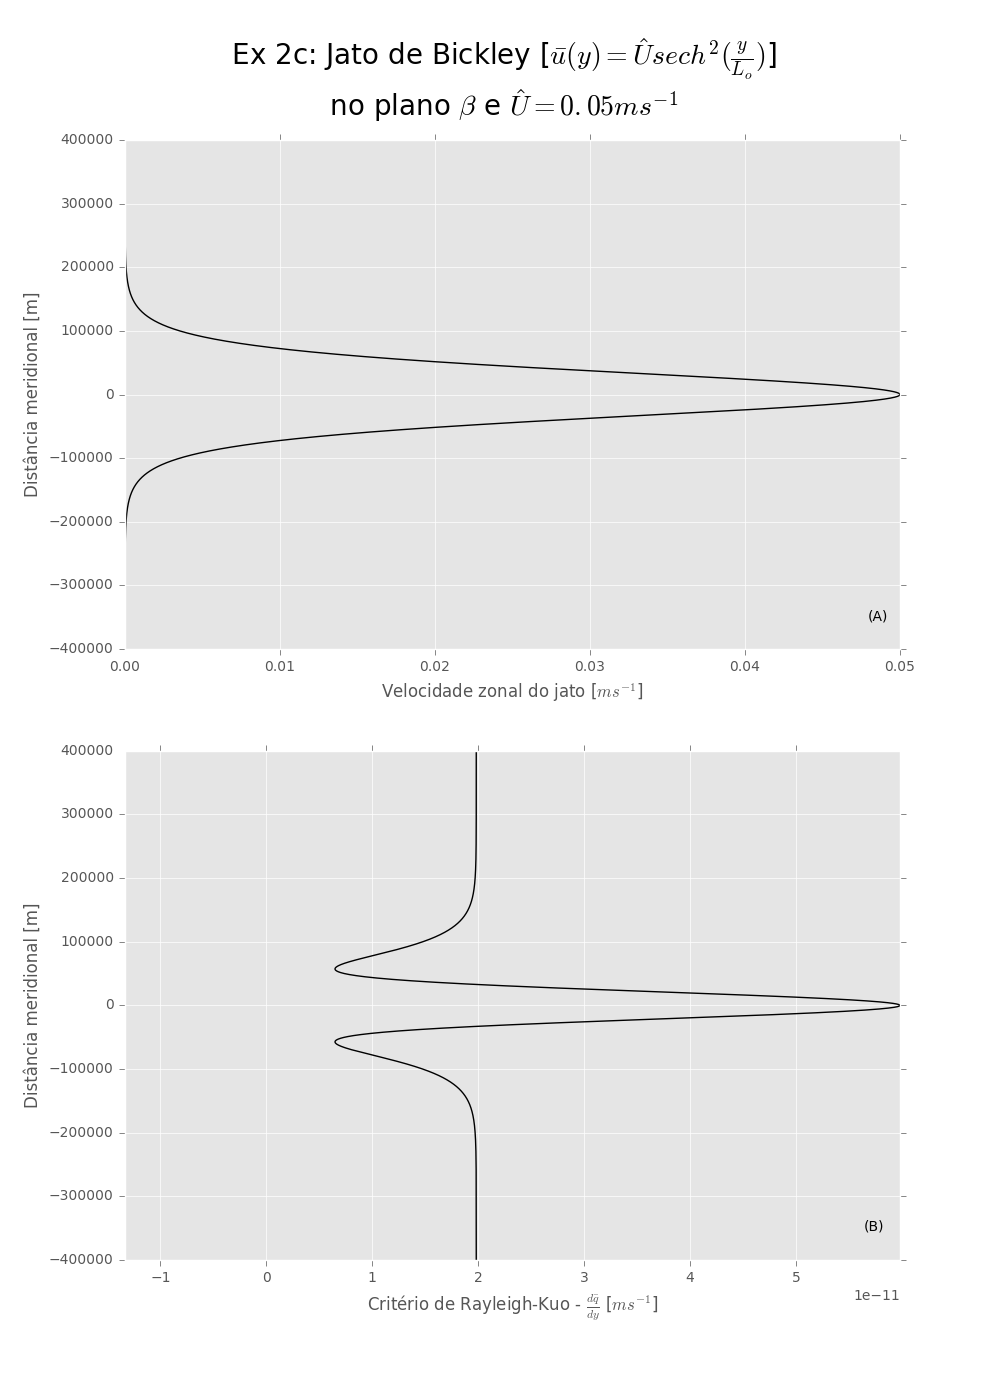
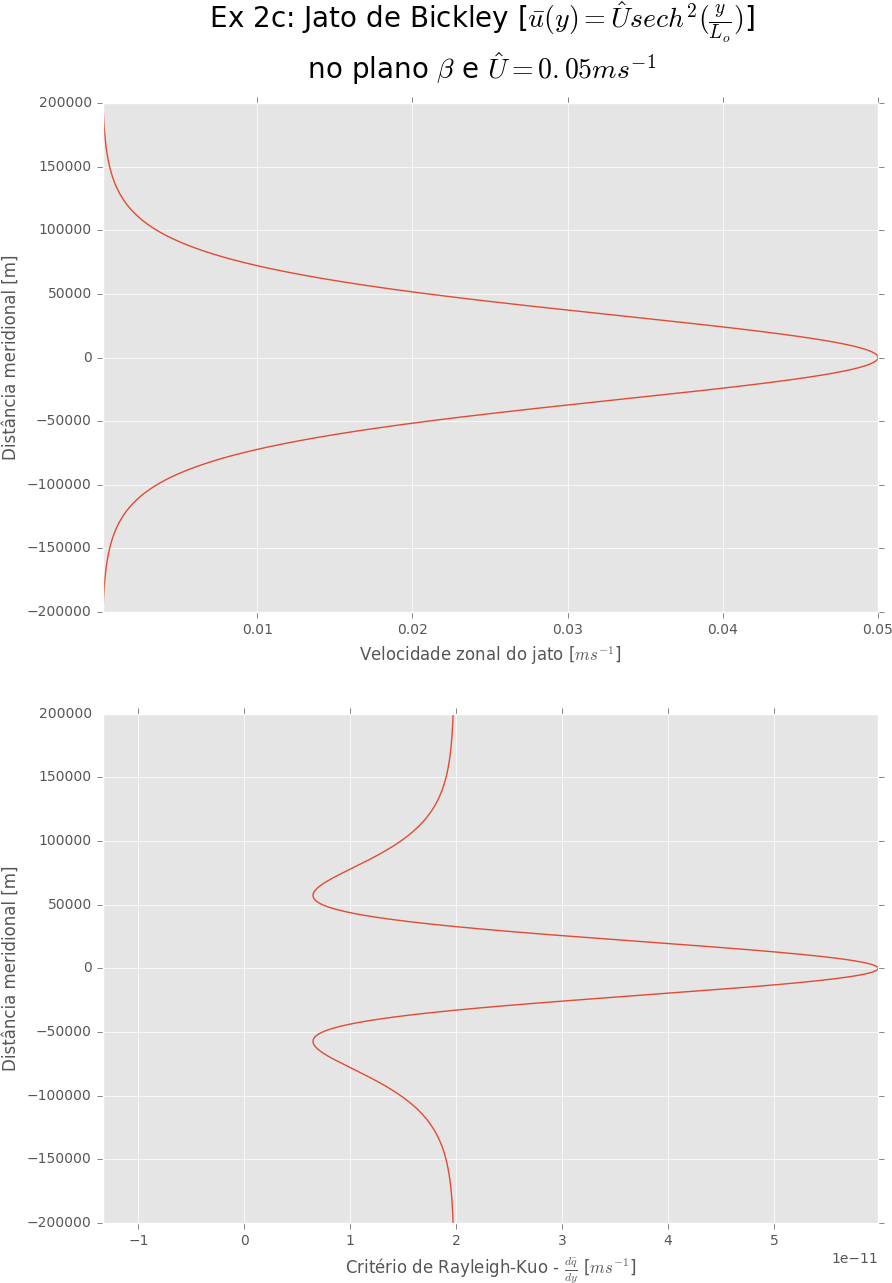
joblab_25Jul

Changed region(s): [[0.0, 0.0, 0.9989, 1.0], [0.454, 0.7171, 0.6054, 0.7482], [0.333, 0.6547, 0.454, 0.7171]]

diff --git a/IOC5811/lista2/codes/lista2_InstabilidadeBarotropica.py b/IOC5811/lista2/codes/lista2_InstabilidadeBarotropica.py
@@ -14,7 +14,7 @@ matplotlib.style.use('ggplot')
 
 # set to True if you're plotting the final graphs, otherwise keep as False
 # and no image will be save, only showed to you.
-PLOTandSAVE = False
+PLOTandSAVE = True
 
 # exercicio 2.A - jato de bickley dado por u(y) =
 def calcular_dqdy(y, Lo, U, beta):
@@ -69,7 +69,7 @@ def plotar_ex2a(U, Lo, L, beta=0., figname=''):
 
 	fig, (ax1, ax2) = plt.subplots(nrows=2, ncols=1, figsize=(10,14))
 
-	ax1.plot(u,y, 'k')
+	ax1.plot(u,y)
 
 	#ax1.set_ylim(200000, -200000)
 	#ax1.set_title('Ex.2-a) Velocidade Zonal (u)')
@@ -78,7 +78,7 @@ def plotar_ex2a(U, Lo, L, beta=0., figname=''):
 	ax1.set_xlabel(u"Velocidade zonal do jato [$m s^{-1}$]")
 	ax1.set_xlim([u.min(), u.max()])
 
-	ax2.plot(dqdy, y, 'k')
+	ax2.plot(dqdy, y)
 
 	p_inflexao = [(0., 0.66*Lo), (0., -0.66*Lo)]
 	for p in p_inflexao:
@@ -120,7 +120,7 @@ def plotar_ex2b(y, dqdy, u_barra, u_0, Lo, figname=""):
 	# plotando o critério de Rayleigh-Kuo
 	p_inflexao = [(0., 0.66*Lo), (0., -0.66*Lo)]
 
-	ax1.plot(dqdy, y, 'k')
+	ax1.plot(dqdy, y)
 	for p in p_inflexao:
 		ax1.scatter(p[0], p[1], color='k', marker='o')
 
@@ -136,7 +136,7 @@ def plotar_ex2b(y, dqdy, u_barra, u_0, Lo, figname=""):
 
 	# plotando o critério de Fjortoft
 	fjor = calcular_fjortoft(u_barra, u_0, dqdy)
-	ax2.plot(fjor, y, 'k')
+	ax2.plot(fjor, y)
 
 	# for p in p_inflexao:
 	# 	ax2.scatter(p[0], p[1], color='k', marker='o')
@@ -174,12 +174,12 @@ def plotar_ex2c(U, Lo, L, beta, dqdy_min, figname=""):
 	fig, (ax1, ax2) = plt.subplots(nrows=2, ncols=1, figsize=(10,14))
 
 	# plotando o critério de Rayleigh-Kuo
-	ax1.plot(u, y, 'k')
+	ax1.plot(u, y)
 	ax1.set_ylabel(u"Distância meridional [m]")
 	ax1.set_xlabel(u"Velocidade zonal do jato [$m s^{-1}$]")
 	ax1.set_xlim([u.min(), u.max()])
 
-	ax2.plot(dqdy, y, 'k')
+	ax2.plot(dqdy, y)
 
 	#ax2.set_title('Ex.2-a) Gradiente de Vorticidade Potencial Basica')
 	ax2.set_ylabel(u"Distância meridional [m]")
@@ -216,13 +216,13 @@ def plotar_ex2d(U, Lo, L, beta, figname=''):
 
 	fig, (ax1, ax2) = plt.subplots(nrows=2, ncols=1, figsize=(10,14))
 
-	ax1.plot(u,y,'k')
+	ax1.plot(u,y)
 
 	ax1.set_ylabel(u"Distância meridional [m]")
 	ax1.set_xlabel(u"Velocidade zonal do jato [$m s^{-1}$]")
 	ax1.set_xlim([u.min(), u.max()])
 
-	ax2.plot(dqdy, y, 'k')
+	ax2.plot(dqdy, y)
 
 	# calcular os pontos de inflexão e a velocidade nestes pontos
 	u0, ys, idy = calcular_u0(dqdy, U, Lo, y)
@@ -302,7 +302,7 @@ def plotar_ex2d_parteIII(jatoA, jatoD, y, figname=""):
 
 	fig, (ax1, ax2) = plt.subplots(nrows=1, ncols=2, figsize=(10,8), sharey=True)
 	# plot jatoA
-	ax1.plot(jatoA, y, 'k')
+	ax1.plot(jatoA, y)
 	ax1.fill_between(jatoA, -100, y, alpha=.5, label=labelA)
 	ax1.set_title(u'Critério de Fjortoft - Jato A')
 	ax1.set_xlabel(u"Critério de Fjortoft - " + r"$(\bar{u} - u_o) \frac{dq}{dy}$ [$m s^{-1}$]")
@@ -310,7 +310,7 @@ def plotar_ex2d_parteIII(jatoA, jatoD, y, figname=""):
 	ax1.axvline(0., color='gray')
 	ax1.legend()
 
-	ax2.plot(jatoD, y, 'k')
+	ax2.plot(jatoD, y)
 	ax2.fill_between(jatoD, -100, y, alpha=.5, label=labelD)
 	ax2.set_title(u'Critério de Fjortoft - Jato D')
 	ax2.set_xlabel(u"Critério de Fjortoft - " + r"$(\bar{u} - u_o) \frac{dq}{dy}$ [$m s^{-1}$]")
@@ -326,7 +326,7 @@ def plotar_ex2d_parteIII(jatoA, jatoD, y, figname=""):
 		plt.show()
 
 def find_nearest(n, s, r, index=False):
-	""" 
+	"""
 		Find 'n' values in 's' with the lowest absolute
 		difference from the number 'r'.
 
@@ -341,14 +341,14 @@ def find_nearest(n, s, r, index=False):
 			index = control if the returned value is the
 			data itself or only the indexes
 
-		output: 
+		output:
 			values of s or indexes, based on index argument
 	"""
 
 	from heapq import nsmallest
 
 	if index:
-		# return the index of data 
+		# return the index of data
 		ids = []
 		# list with all data found
 		val = nsmallest(n,s, key=lambda x: abs(x-r))
@@ -446,7 +446,7 @@ for x in u0:
 	print(x)
 
 #plotar o critério de fjortoft
-# como são 4 raízes, mas somente duas velocidades, então envio somente duas 
+# como são 4 raízes, mas somente duas velocidades, então envio somente duas
 # velocidades para calcular e plotar o critério de Fjortoft
 if PLOTandSAVE:
 	figname = '../outputs/Fig2_4_2.png'
@@ -465,6 +465,14 @@ else:
 plotar_ex2d_parteIII(fjor_jatoA, fjor_jatoD, y, figname=figname)
 
 
+
+import glob
+import os
+
+lstFile = glob.glob('../outputs/Fig*')
+for fname in lstFile:
+	if fname != '../outputs/Fig2_4_2.png':
+		os.system('convert -trim %s %s' % (fname, fname))
 
 
 ###################################################

diff --git a/IOC5811/lista2/codes/RK_solver.py b/IOC5811/lista2/codes/RK_solver.py
@@ -1,5 +1,5 @@
 #-*-coding:utf-8-*-
-""" 
+"""
 Converting RK_soltar_lista2.m from matlab to python.
 
 In the process, answering exercise 2.E from the second homework of DFGII
@@ -7,7 +7,7 @@ In the process, answering exercise 2.E from the second homework of DFGII
 Some useful sources and links:
 
 . Eigenvalue and eigenvector problem:
-    mathematical theory: 
+    mathematical theory:
         https://www.respondeai.com.br/resumos/33/capitulos/1
     numerical solution using Jacobi's Method:
         http://www.southampton.ac.uk/~feeg6002/lecturenotes/feeg6002_numerical_methods08.pdf
@@ -40,7 +40,7 @@ def importMatfile(fname=''):
     return cr, sig, P
 
 def plotar_tudo(k,y,cr,sig,Pphasemax, Pmax, figname, title):
-    """ 
+    """
         plotar 4 subplots with:
             cr x k*1000
             sig x k*1000
@@ -52,41 +52,47 @@ def plotar_tudo(k,y,cr,sig,Pphasemax, Pmax, figname, title):
     kplot = k*1000
     yplot = y*1e-3
 
-    fig, axes = plt.subplots(nrows=2, ncols=2, figsize=(10,10))
+    fig, axes = plt.subplots(nrows=2, ncols=2, figsize=(13,12))
 
     # plot cr x k
     axes[0, 0].plot(kplot, cr)
     axes[0, 0].set_title(u'Velocidade de Fase - $c_r$')
-    axes[0, 0].set_xlabel(u'phase speeds [$m s^{-1}$]')
-    axes[0, 0].set_ylabel(u'Número de onda [$km^{-1}$]')
+    axes[0, 0].set_xlabel(u'Número de onda [$km^{-1}$]')
+    axes[0, 0].set_ylabel(u'Velocidade de Fase [$m s^{-1}$]')
     axes[0, 0].set_xlim([0.003, 0.04])
     axes[0, 0].set_ylim([0., 0.05])
-    axes[0, 0].text(0.0360052, 0.00467125, '(A)')
+    axes[0, 0].text(0.0375717, 0.00453675, '(A)', ha='center')
 
     axes[0, 1].plot(kplot, sig)
     axes[0, 1].set_title(u'Taxa de Crescimento - $\sigma = k c_i$')
-    axes[0, 1].set_xlabel(u'growth rates [$days^{-1}$]')
-    axes[0, 1].set_ylabel(u'Número de onda [$km^{-1}$]')
+    axes[0, 1].set_xlabel(u'Número de onda [$km^{-1}$]')
+    axes[0, 1].set_ylabel(u'Taxa de Crescimento [$dias^{-1}$]')
     axes[0, 1].set_ylim([0, 0.02])
     axes[0, 1].set_xlim([0.003, 0.04])
-    axes[0, 1].text(0.0362016, 0.0019526, '(B)')
+    axes[0, 1].text(0.0374733, 0.00266874, '(B)', ha='center')
+
+    # plotar o k onde sigma é maximo:
+    if title[-1] != "G":
+        imax   = np.where(sig == np.nanmax(sig))[0]
+        axes[0, 1].scatter(kplot[imax], sig[imax], c=80, marker='o')
+        axes[0, 1].text(kplot[imax] + 0.000280, sig[imax] + 0.0003, u'$k_{max} = %1.3f km^{-1}$' % (kplot[imax]))
 
     axes[1, 0].plot(Pmax, yplot)
     axes[1, 0].set_title(u'Amplitude do Modo mais Instável')
-    axes[1, 0].set_xlabel(u'Amplitude do Modo P/ $\phi$')
+    axes[1, 0].set_xlabel(u'Amplitude do Modo [$\phi$]')
     axes[1, 0].set_ylabel(u'Distância Meridional [km]')
     axes[1, 0].set_ylim([-L*1e-3, L*1e-3])
     axes[1, 0].set_xlim([0., 0.18])
 
-    axes[1, 0].text(0.165055, -173.761, '(C)')
+    axes[1, 0].text(0.16984, -176.77, '(C)', ha='center')
 
     axes[1, 1].plot(Pphasemax, yplot)
     axes[1, 1].set_title('Fase')
     axes[1, 1].set_xlabel(u'Fase [$^o$]')
-    axes[1, 1].set_ylabel(u'Distância Meridional [km]')    
+    axes[1, 1].set_ylabel(u'Distância Meridional [km]')
     axes[1, 1].set_ylim([-L*1e-3, L*1e-3])
     axes[1, 1].set_xlim([-70, 0])
-    axes[1, 1].text(-6.60426, 180.489, '(D)')
+    axes[1, 1].text(-4.99454, -176.77, '(D)', ha='center')
 
     plt.suptitle(u'Solução da Equação de Rayleigh-Kuo - ' + title, fontsize=20)
 
@@ -219,7 +225,7 @@ for ex in exercs:
     sigmax = sig[imax]
 
     Pmax      = np.squeeze(Pamp[:, imax])
-    
+
     # orthonomalization
     Pmax      = Pmax / (np.linalg.norm(Pmax))
     Pphasemax = Pphase[:, imax]
